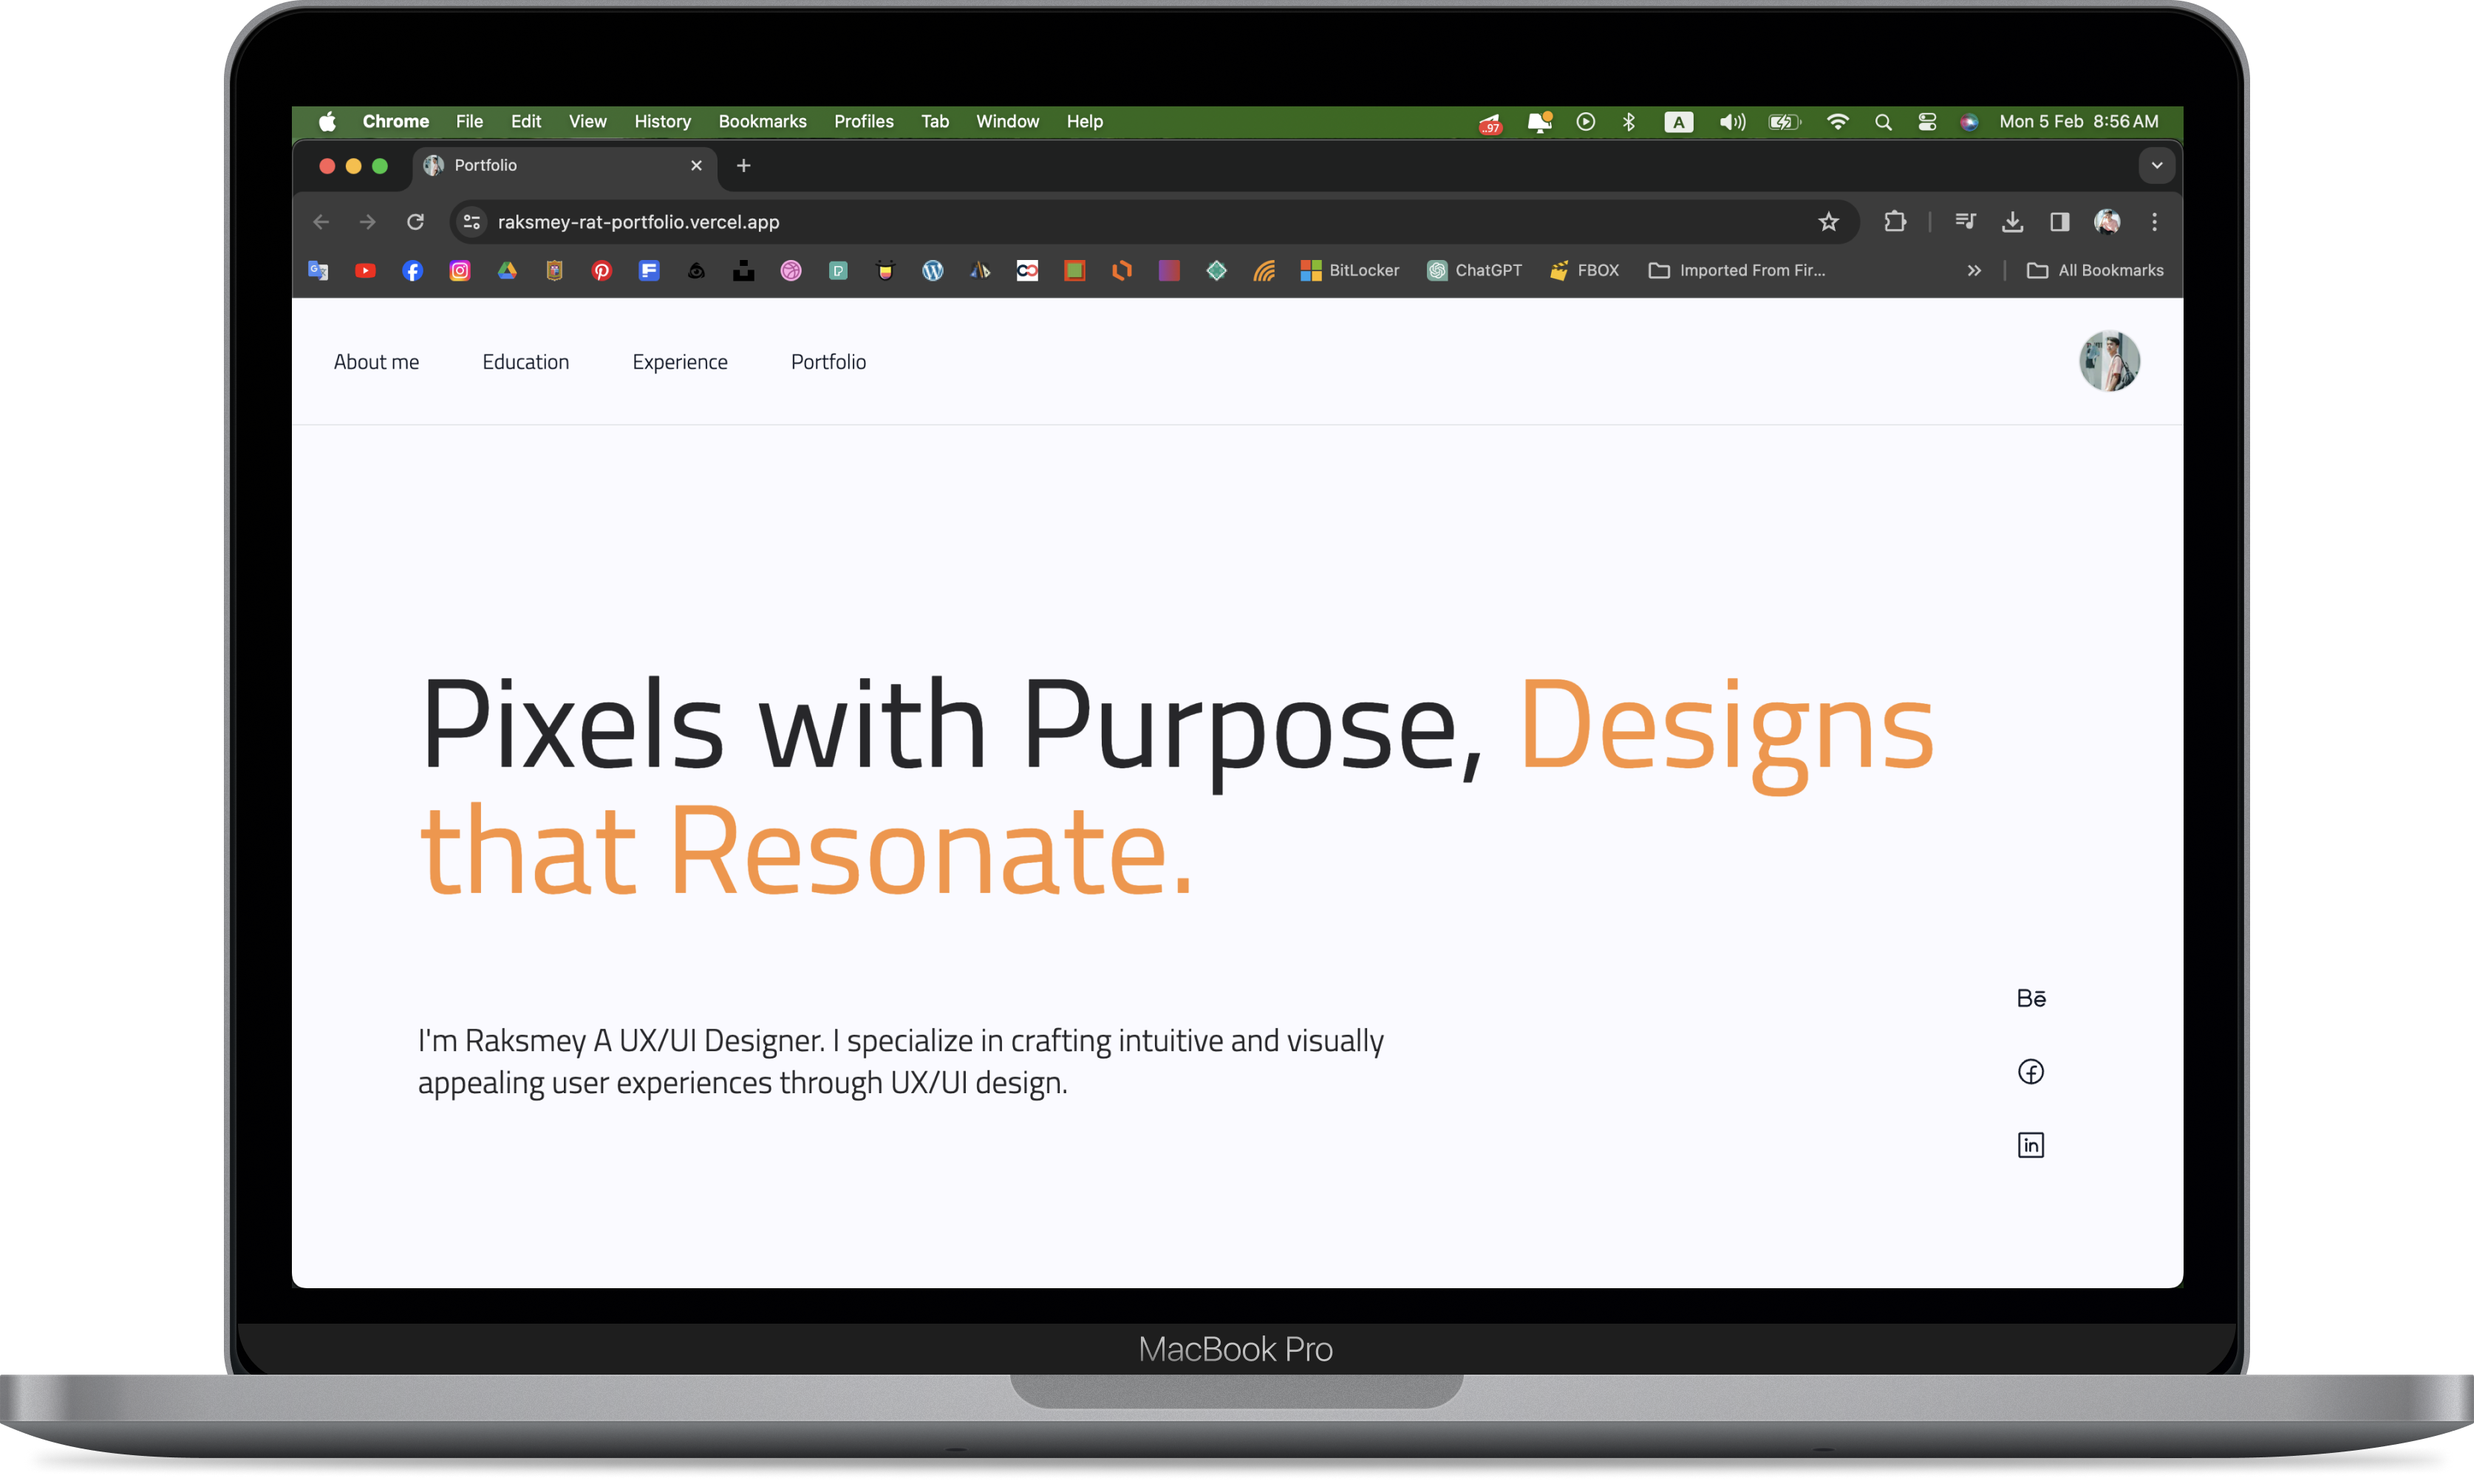
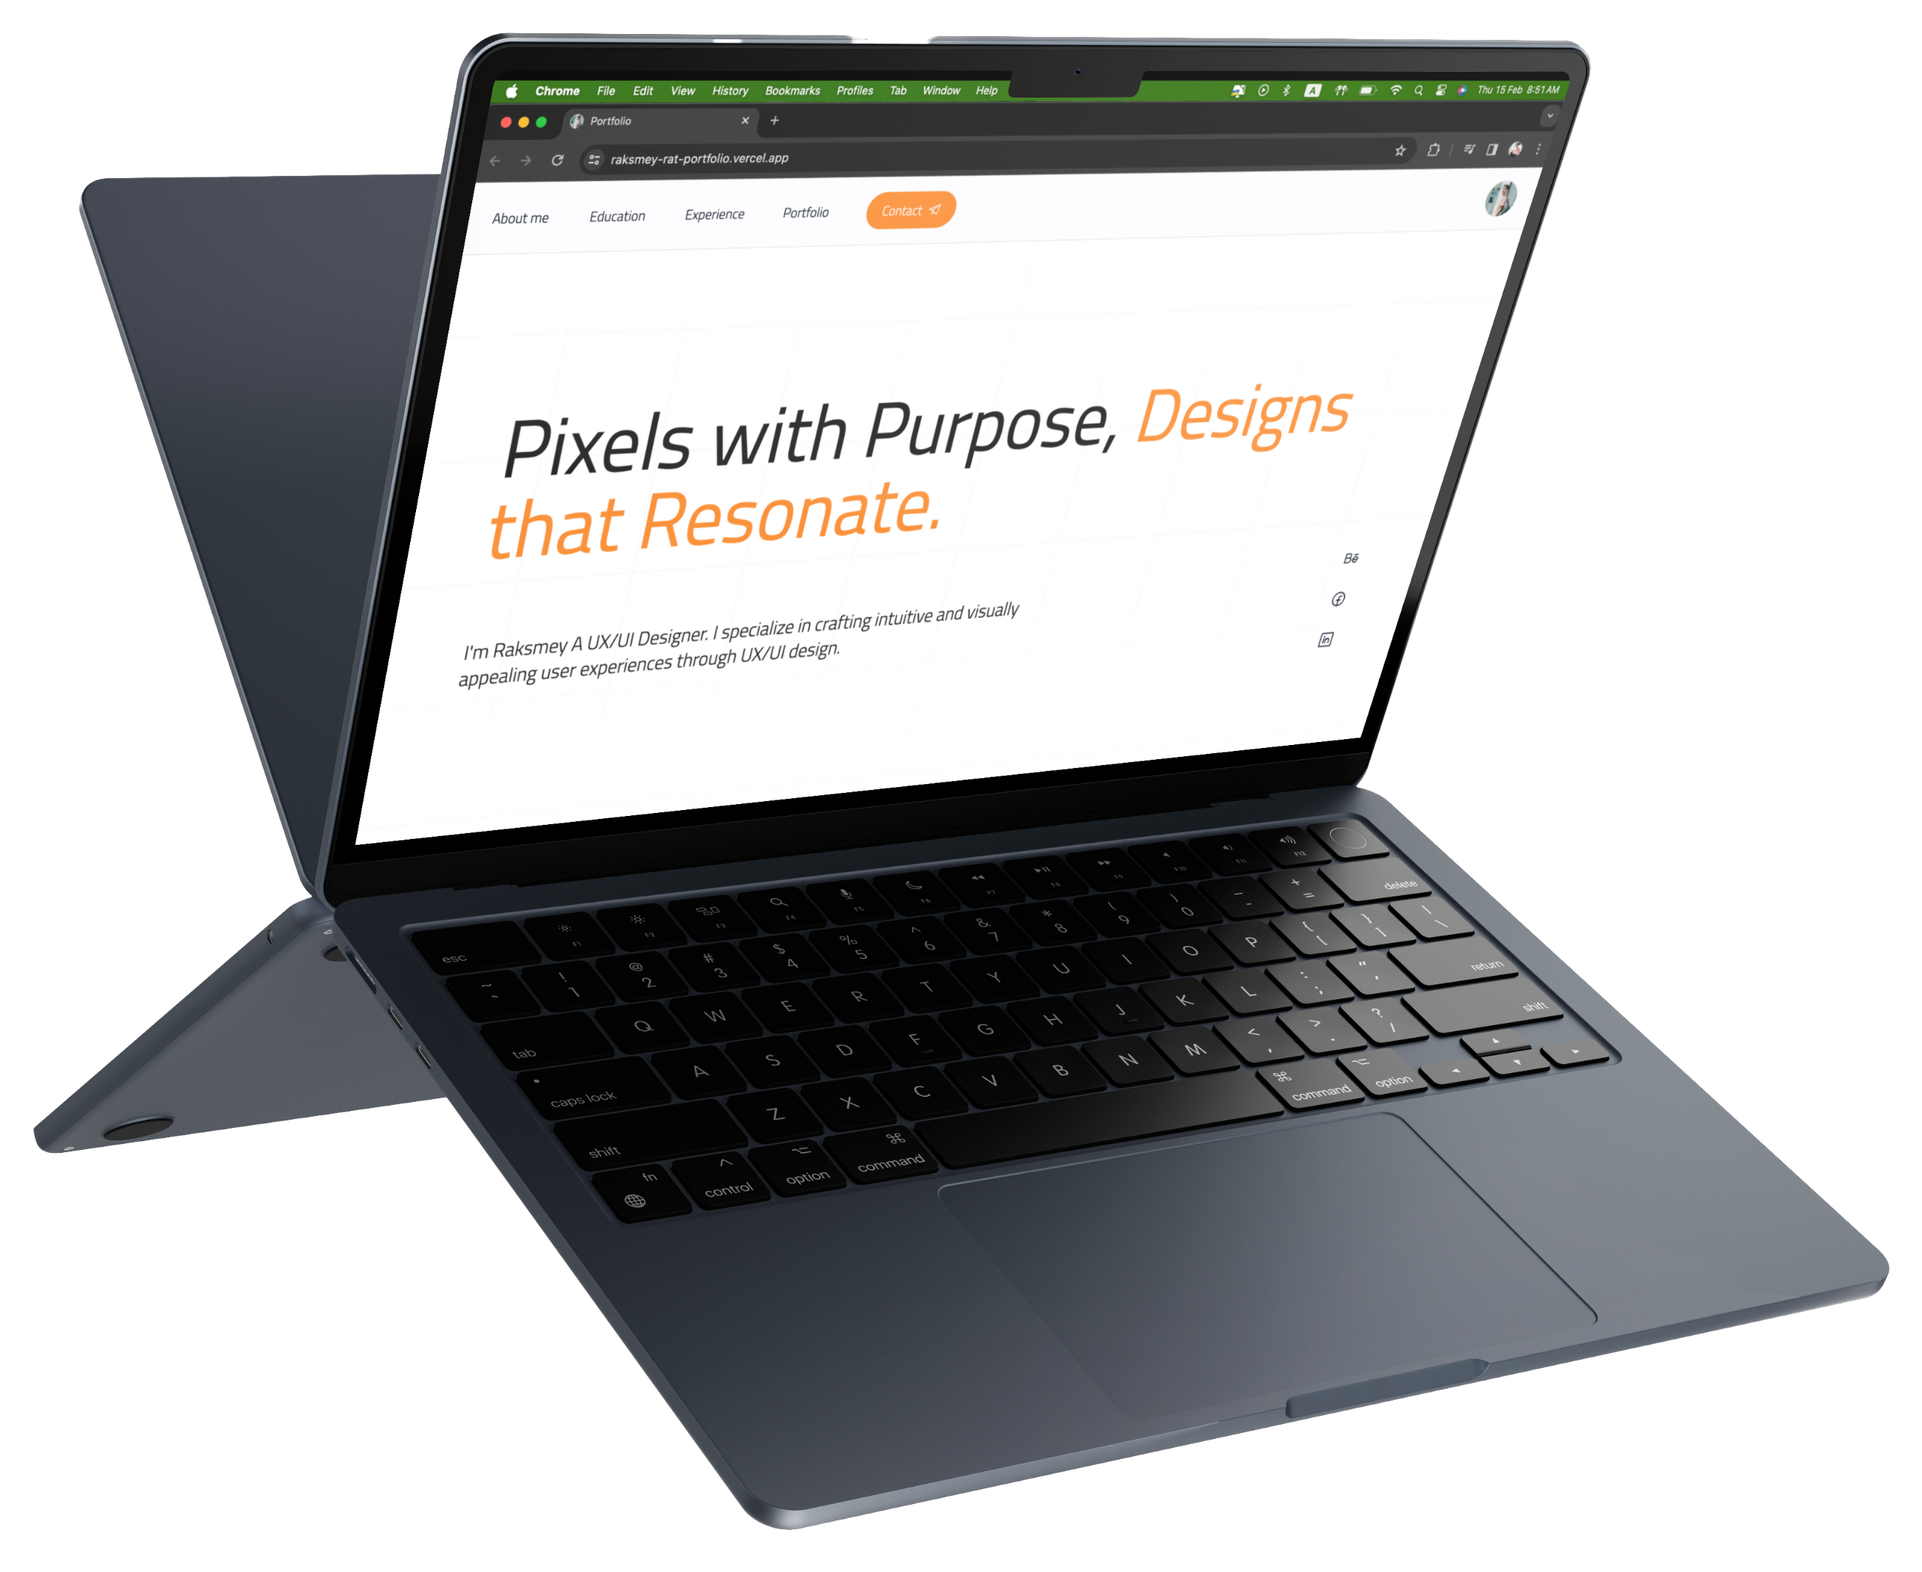
123

diff --git a/src/app/components/Header.js b/src/app/components/Header.js
@@ -1,16 +1,10 @@
 "use client";
-import Image from "next/image";
-import Link from "next/link";
-import React from "react";
-import {
-  PiEquals,
-  PiTelegramLogo,
-  PiTelegramLogoBold,
-  PiTelegramLogoFill,
-  PiX,
-} from "react-icons/pi";
-import { useState } from "react";
+// components/Header.js
+import React, { useState } from "react";
+import { PiEquals, PiTelegramLogo, PiX } from "react-icons/pi";
 import { Dialog } from "@headlessui/react";
+import Link from "next/link";
+import Image from "next/image";
 
 const navigation = [
   { name: "About me", href: "#aboutme" },
@@ -18,6 +12,7 @@ const navigation = [
   { name: "Experience", href: "#experience" },
   { name: "Portfolio", href: "#portfolio" },
 ];
+
 export const Header = () => {
   const [mobileMenuOpen, setMobileMenuOpen] = useState(false);
 
@@ -37,19 +32,20 @@ export const Header = () => {
               {item.name}
             </Link>
           ))}
-          <button
+         
+        </div>
+
+        <div className="flex gap-x-8">
+        <button
             type="button"
-            className="flex justify-center items-center gap-2 text-sm lg:text-base font-light leading-6 px-2 py-1 lg:px-5 lg:py-2.5 bg-orange-400 rounded-full transition duration-200 hover:bg-orange-500"
+            className="lg:flex hidden justify-center items-center gap-2 text-sm lg:text-base font-light leading-6 px-2 py-1 lg:px-5 lg:py-2.5 bg-orange-400 rounded-full transition duration-200 hover:bg-orange-500"
           >
             {" "}
-            <Link href="https://t.me/doublepainz" className="">
+            <Link target="_blank" href="https://t.me/doublepainz" className="">
               Contact
             </Link>
             <PiTelegramLogo size={16} />
           </button>
-        </div>
-
-        <div className="flex ">
           <Link href="#hero" className="-m-1.5 p-1.5 flex flex-row gap-1">
             <Image
               src="/images/profile.jpeg"
@@ -123,7 +119,7 @@ export const Header = () => {
                 ))}
                 <hr className="border-gray-900/10"></hr>
                 <Link
-                target="_blank"
+                  target="_blank"
                   href="https://t.me/doublepainz"
                   className="-mx-3 flex justify-start items-center gap-2  rounded-lg px-3 py-2 text-base font-light leading-7 text-gray-900 hover:bg-orange-200"
                 >

diff --git a/src/app/sections/Portfolio.js b/src/app/sections/Portfolio.js
@@ -5,16 +5,14 @@ import React from "react";
 const projects = [
   {
     image1: "/images/portfolio1.png",
-    image2: "/images/portfolio2.png",
     href: "https://www.prometeus-kc.com/",
     title: "Company Landing Website - Prometeus KC",
     desc: "Explore Prometeus KC's dynamic landing site, showcasing innovative solutions, expertise, and a commitment to excellence in every aspect.",
   },
   {
     image1: "/images/portfolio3.png",
-    image2: "/images/portfolio4.png",
     href: "https://raksmey-rat-portfolio.vercel.app/",
-    title: "My Portfolio",
+    title: "My Web Portfolio",
     desc: "I developed this portfolio site by using Next.js and Tailwind CSS to showcase my skills and experience, highlighting my projects, skills, and achievements.",
   },
 ];
@@ -42,16 +40,6 @@ export const Portfolio = () => {
                       alt="portfolio"
                     />
                   </Link>
-                  <div className="flex lg:justify-center lg:items-center gap-4">
-                    <Link target="_blank" href="https://www.prometeus-kc.com/">
-                      <Image
-                        src={project.image2}
-                        width={180}
-                        height={180}
-                        alt="portfolio"
-                      />
-                    </Link>
-                  </div>
                 </div>
               </div>
               <h3 className="text-lg lg:text-2xl font-semibold text-gray-800 lg:text-center my-3 lg:my-3">

diff --git a/src/app/components/LanguageSwitcher.js b/src/app/components/LanguageSwitcher.js
@@ -1,0 +1,22 @@
+// components/LanguageSwitcher.js
+import { useRouter } from 'next/router';
+import useTranslation from 'next-translate/useTranslation';
+
+const LanguageSwitcher = () => {
+  const { t, lang } = useTranslation();
+  const router = useRouter();
+
+  const changeLanguage = (e) => {
+    const locale = e.target.value;
+    router.push(router.pathname, router.asPath, { locale });
+  };
+
+  return (
+    <select value={lang} onChange={changeLanguage}>
+      <option value="en">English</option>
+      <option value="km">Khmer</option>
+    </select>
+  );
+};
+
+export default LanguageSwitcher; // Export as default
